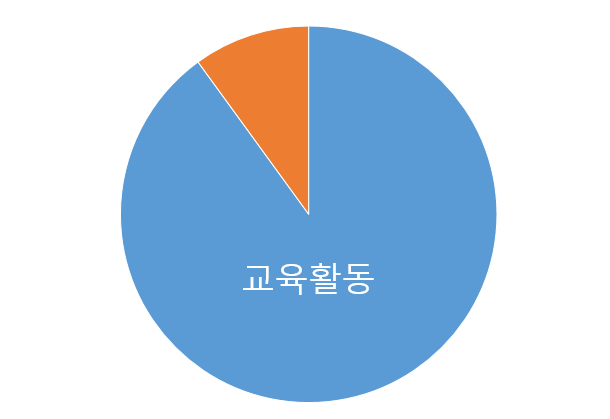
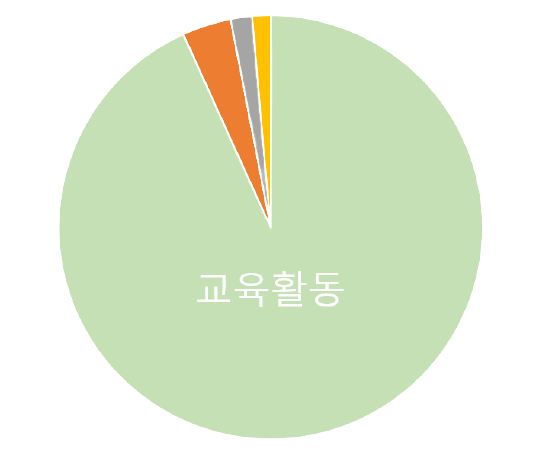
main

diff --git a/src/app/home/main/main.page.scss b/src/app/home/main/main.page.scss
@@ -1,6 +1,6 @@
 .swiper {
   width: 100%;
-  // height: 50%;
+  height: 95%;
 }
 
 .swiper-slide {
@@ -39,11 +39,7 @@
 .swiper-button-prev::after,
 .swiper-button-next::after {
   font-size: 25px;
-  color: #1597e5;
-}
-
-img {
-  object-fit: contain;
+  color: #fff;
 }
 
 .exp {
@@ -60,7 +56,6 @@ img {
   width: 100%;
   margin-top: 20px;
   background: linear-gradient(#fff 50%, #eeeeee 50%);
-  // border-bottom: 1px solid black;
 }
 
 .two img {
@@ -77,31 +72,67 @@ img {
 }
 
 .grp {
+  background-color: #1597e5;
   h2 {
-    text-align: center;
+    color: white;
+    margin-left: 20px;
   }
-}
-
-p {
-  // border: 1px solid rebeccapurple;
-  width: 94%;
-  margin-left: 3%;
+  p {
+    color: white;
+    margin-left: 20px;
+  }
 }
 
 .news {
   width: 100%;
-  margin-top: 20px;
-  margin-bottom: 20px;
-  border-top: 1px solid var(--ion-color-medium);
+  margin-bottom: 10px;
   h2 {
-    margin-left: 10px;
+    width: 60px;
+    font-size: 18px;
+    text-align: right;
+    color: #1597e5;
+    border-bottom: 1px solid #1597e5;
   }
   p {
-    margin-bottom: 0%;
-    font-size: 16px;
+    width: 90%;
+    margin-left: 5%;
+    margin-bottom: 5px;
   }
   img {
     width: 90%;
     margin-left: 5%;
   }
+}
+
+.support {
+  width: 100%;
+  margin-bottom: 10px;
+  h2 {
+    font-size: 18px;
+    width: 60px;
+    text-align: right;
+    color: #1597e5;
+    border-bottom: 1px solid #1597e5;
+  }
+}
+
+#area {
+  position: relative; /* absolute는 부모가 relative일 때 부모를 따라간다. */
+  width: 90%;
+  padding-bottom: 56.25%; /* 16:9 비율 */
+  margin-left: 5%;
+  margin-bottom: 0%;
+}
+
+#video {
+  position: absolute;
+  width: 100%; /* 부모에 맞게 꽉 채운다. */
+  height: 100%;
+}
+
+ion-button {
+  width: 80%;
+  height: 45px;
+  font-size: 1.3rem;
+  margin: 10px 10%;
 }

diff --git a/src/app/home/main/main.page.html b/src/app/home/main/main.page.html
@@ -35,14 +35,43 @@
       <img src="assets/imgs/img2.jpg" />
       <p>{{peacetext2}}</p>
     </div>
+
     <div class="grp">
       <h2>후원금은 이렇게 사용됩니다.</h2>
+      <p>
+        후원금의 80% 이상은 반드시<br />
+        교육을 위해 사용합니다
+      </p>
       <img src="../../../assets/imgs/graph.PNG" />
     </div>
+
     <div class="news">
       <h2>뉴스</h2>
       <p>접경지역 주민들 “한반도 종전협정 위해 시민평화외교 운동”</p>
       <a href="http://naver.me/xYQHj0VM"><img src="assets/imgs/img12.jpg" /></a>
+    </div>
+
+    <div class="support">
+      <h2>후원</h2>
+
+      <div id="group">
+        <div id="area">
+          <div id="video" class="container4">
+            <iframe
+              width="100%"
+              height="100%"
+              src="https://www.youtube.com/embed/0JQ3L6M1Lb8"
+              title="YouTube video player"
+              frameborder="0"
+              allow="accelerometer; autoplay; clipboard-write; encrypted-media; gyroscope; picture-in-picture"
+              allowfullscreen
+            ></iframe>
+          </div>
+        </div>
+      </div>
+      <ion-button (click)="onClick()" expand="block" color="main">
+        후원하기
+      </ion-button>
     </div>
   </div>
   <app-footer></app-footer>
